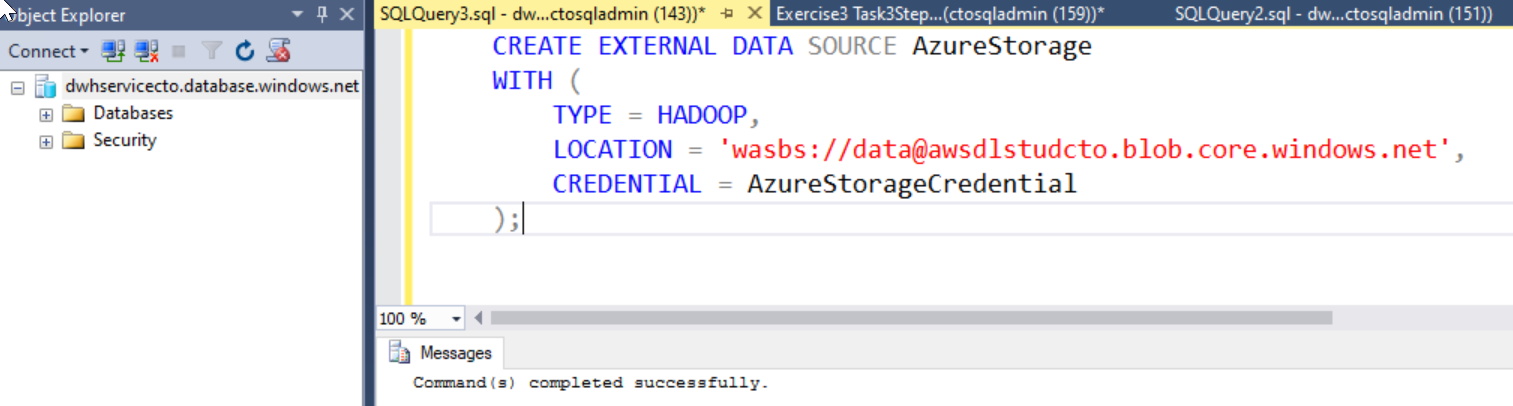
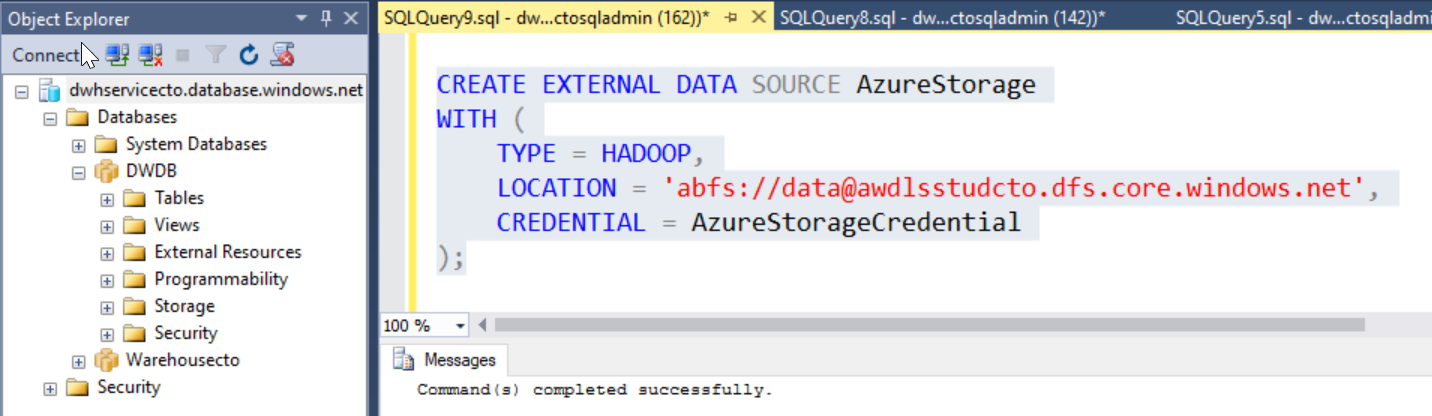
Lab 6 updates

diff --git a/instructions/dp-200-06_instructions.md b/instructions/dp-200-06_instructions.md
@@ -75,47 +75,59 @@ The main tasks for this exercise are as follows:
 
 ### Task 1: Create and configure an Event Hub Namespace.
 
-1. In the Azure portal, select **+ Create a resource**, type **Event Hubs**, and then select **Event Hubs** from the resulting search. Then select **Create**.
+1. In the Azure portal, click on the **Home** hyperlink at the top left of the screen.
 
-1. In the Create Namespace blade, type out the following options, then click **Create**:
-    - **Name**: xx-phoneanalysis-ehns, where xx are your initials
-    - **Pricing Tier**: Standard
-    - **Subscription**: Your subscription
-    - **Resource group**: awrgstudxx
+1. In the Azure portal, click on the **+ Create a resource** icon , type **Event Hubs**, and then select **Event Hubs** from the resulting search. In the Event Hubs screen, click **Create**.
+
+1. In the Create Namespace blade, type out the following options:
+    - **Name**: **xx-phoneanalysis-ehn**, where xx are your initials
+    - **Pricing Tier**: **Standard**
+    - **Subscription**: **Your subscription**
+    - **Resource group**: **awrgstudxx**
     - **Location**: select the location closest to you
     - **Enable Auto-Inflate**: click on the check box 
-    - **Auto-Inflate Maximum Throughput Units**: 20
+    - **Auto-Inflate Maximum Throughput Units**: **20**
     - Leave other options to their default settings
 
-    > **Note**: The creation of the Event Hub Namespace takes approximately 1 minute.
+        ![Creating an Event Hub Namespace in Azure portal](Linked_Image_Files/M06-E02-T01-img01.png)
 
+1. Then click **Create**
+
+    > **Note**: The creation of the Event Hub Namespace takes approximately 1 minute.
+   
 ### Task 2: Create and configure an Event Hub
+
+1. In the Azure portal, click on the **Home** hyperlink at the top left of the screen.
 
 1. In the Azure portal, in the blade, click **Resource groups**, and then click **awrgstudxx**, where **xx** are your initials
 
-1. Click on **xx-phoneanalysis-ehns**, where **xx** are your initials.
+1. Click on **xx-phoneanalysis-ehn**, where **xx** are your initials.
 
-1. In the **xx-phoneanalysis-ehns** screen, click on **+ Event Hubs**.
+1. In the **xx-phoneanalysis-ehn** screen, click on **+ Event Hubs**.
 
-1. Provide the name **xx-phoneanalysis-eh**, and then select **Create**.
+1. Provide the name **xx-phoneanalysis-eh**, leave the other settings to thier default values and then select **Create**.
+
+    ![Creating an Event Hub in Azure portal](Linked_Image_Files/M06-E02-T02-img01.png)
 
     > **Note**: You will receive a message stating that the Event Hub is created after about 10 seconds
 
 ### Task 3: Configure Event Hub security
 
-1. In the Azure portal, in the **xx-phoneanalysis-ehns** screen, where **xx** are your initials. Scroll to the bottom of the window, and click on **xx-phoneanalysis-eh** event hub.
+1. In the Azure portal, in the **xx-phoneanalysis-ehn** screen, where **xx** are your initials. Scroll to the bottom of the window, and click on **xx-phoneanalysis-eh** event hub.
 
 1. To grant access to the event hub, in the blade on the left click **Shared access policies**.
 
 1. Under the **xx-phoneanalysis-eh - Shared access policies** screen, create a policy with **Manage** permissions by selecting **+ Add**. Give the policy the name of **xx-phoneanalysis-eh-sap** , check **Manage**, and then click **Create**.
 
+    ![Creating a Shared Access Policy for Event Hubs in Azure portal](Linked_Image_Files/M06-E02-T03-img01.png)
+
 1. Click on your new policy **xx-phoneanalysis-eh-sap** after it has been created, and then select the copy button for the **CONNECTION STRING - PRIMARY KEY** and paste the CONNECTION STRING - PRIMARY KEY  into Notepad, this is needed later in the exercise.
 
->**NOTE**: The connection string looks as follows:
-> ```CMD
- >Endpoint=sb://<Your event hub namespace>.servicebus.windows.net/;SharedAccessKeyName=<Your shared access policy name>;SharedAccessKey=<generated key>;EntityPath=<Your event hub name>
- >```
-> Notice that the connection string contains multiple key-value pairs separated with semicolons: Endpoint, SharedAccessKeyName, SharedAccessKey, and EntityPath.
+    >**NOTE**: The connection string looks as follows:
+    > ```CMD
+    >Endpoint=sb://<Your event hub namespace>.servicebus.windows.net/;SharedAccessKeyName=<Your shared access policy name>;SharedAccessKey=<generated key>;EntityPath=<Your event hub name>
+    >```
+    > Notice that the connection string contains multiple key-value pairs separated with semicolons: Endpoint, SharedAccessKeyName, SharedAccessKey, and EntityPath.
 
 1. Close down the Event hub screens in the portal
 
@@ -135,7 +147,7 @@ The main tasks for this exercise are as follows:
 
 ### Task 1: Updates the application connection string.
 
-1. Browse to the location **\Labfiles\Starter\DP-200.6\DataGeneratorr**
+1. Browse to the location **\Labfiles\Starter\DP-200.6\DataGenerator**
 
 1. Open the **telcodatagen.exe.config** file in a text editor of your choice
 
@@ -164,6 +176,8 @@ The main tasks for this exercise are as follows:
 Number of call data records per hour.
 Percentage of fraud probability, which is how often the app should simulate a fraudulent call. The value 0.2 means that about 20% of the call records will look fraudulent.
 Duration in hours, which is the number of hours that the app should run. You can also stop the app at any time by ending the process (Ctrl+C) at the command line.
+
+    ![Running the Data Generator Application in Command Prompt](Linked_Image_Files/M06-E03-T02-img01.png)
 
 After a few seconds, the app starts displaying phone call records on the screen as it sends them to the event hub. The phone call data contains the following fields:
 
@@ -202,14 +216,16 @@ The main tasks for this exercise are as follows:
 
 ### Task 1: Provision a Stream Analytics job.
 
-1. Go back to the Azure portal, select **+ Create a resource**, type **STREAM**, and then click the **Stream Analytics Job**, and then click **CREATE**.
-1. 
+1. Go back to the Azure portal, navigate and click on the **+ Create a resource** icon, type **STREAM**, and then click the **Stream Analytics Job**, and then click **Create**.
+
 1. In the **New Stream Analytics job** screen, fill out the following details and then click on **Create**:
     - **Job name**: phoneanalysis-asa-job.
     - **Subscription**: select your subscription
     - **Resource group**: awrgstudxx
     - **Location**: choose a location nearest to you.
     - Leave other options to their default settings
+
+        ![Create a Stream Analytics Job in the Azure Portal](Linked_Image_Files/M06-E04-T01-img01.png)
 
     > **Note**: You will receive a message stating that the Stream Analytics job is created after about 10 seconds. It may take a couple of minutes to update in the Azure portal.
 
@@ -227,10 +243,12 @@ The main tasks for this exercise are as follows:
     - **Input alias**: Enter a name for this job input as **PhoneStream**.
     - **Select Event Hub from your subscriptions**: checked
     - **Subscription**: Your subscription name
-    - **Event Hub Namespace**: xx-phoneanalysis-ehns
+    - **Event Hub Namespace**: xx-phoneanalysis-ehn
     - **Event Hub Name**: Use existing named xx-phoneanalysis-eh
     - **Event Hub Policy Name**: xx-phoneanalysis-eh-sap
-    - Leave remaining options to their default
+    - Leave the rest of the entries as default values. Finally, click **Save***.
+
+        ![Create a Job Input Stream Analytics Job in the Azure Portal](Linked_Image_Files/M06-E04-T02-img01.png)
 
 1. Once completed, the **PhoneStream** Input job will appear under the input window. Close the input widow to return to the Resource Group Page
 
@@ -243,13 +261,14 @@ The main tasks for this exercise are as follows:
 1. In the **Outputs** screen, click **+ Add**, and then click **Blob Storage**.
 
 1. In the **Blob storage** window, type or select the following values in the pane:
-- **Output alias**: PhoneCallRefData
-- **Select Event Hub from your subscriptions**: checked
-- **Subscription**: Your subscription name
-- **Storage account**: awsastudxx, where xx is your initials
-- **Container**: Use existing and select phonecalls
+    - **Output alias**: **:PhoneCallRefData**:
+    - **Select Event Hub from your subscriptions**: checked
+    - **Subscription**: Your subscription name
+    - **Storage account**: **:awsastudxx**:, where xx is your initials
+    - **Container**: **:Use existing**: and **:select phonecalls**
+    - Leave the rest of the entries as default values. Finally, click **Save**.
 
-1. Leave the rest of the entries as default values. Finally, click **Save***.
+        ![Create a Job Output in Stream Analytics Job in the Azure Portal](Linked_Image_Files/M06-E04-T03-img01.png)
 
 1. Close the output screen to return to the Resource Group page
 
@@ -257,7 +276,7 @@ The main tasks for this exercise are as follows:
 
 1. Click on **phoneanalysis-asa-job**.
 
-1. In your **phoneanalysis-asa-job** window, in the **Query** screen in the middle of the window, click on ** Edit query**
+1. In your **phoneanalysis-asa-job** window, in the **Query** screen in the middle of the window, click on **Edit query**
 
 1. Replace the following query in the code editor:
 
@@ -286,7 +305,9 @@ The main tasks for this exercise are as follows:
     > NOTE: This query performs a self-join on a 5-second interval of call data. To check for fraudulent calls, you can self-join the streaming data based on the CallRecTime value. You can then look for call records where the CallingIMSI value (the originating number) is the same, but the SwitchNum value (country/region of origin) is different. When you use a JOIN operation with streaming data, the join must provide some limits on how far the matching rows can be separated in time. Because the streaming data is endless, the time bounds for the relationship are specified within the ON clause of the join using the DATEDIFF function.
     This query is just like a normal SQL join except for the DATEDIFF function. The DATEDIFF function used in this query is specific to Stream Analytics, and it must appear within the ON...BETWEEN clause.
 
-1. Select Save.
+    ![Create a Query in Stream Analytics Job in the Azure Portal](Linked_Image_Files/M06-E04-T04-img01.png)
+
+1. Select **Save Query**.
 
 1. Close the Query window to return to the Stream Analytics job page.
 
@@ -308,6 +329,8 @@ The main tasks for this exercise are as follows:
 1. In the Azure portal, click **Containers** box, and then click on the container named **phonecalls**.
 
 1. Confirm that a JSON file appears, and note the size column.
+
+    ![Viewing Files in the Azure Portal](Linked_Image_Files/M06-E04-T06-img01.png)
 
 1. Refresh Microsoft Edge, and when the screen has refreshed note the size of the file
 

diff --git a/instructions/dp-200-05_instructions.md b/instructions/dp-200-05_instructions.md
@@ -82,7 +82,7 @@ The main task for this exercise are as follows:
             - Leave the remaining settings to their defaults, and then click on **OK**
             
 
-    ![Creating a SQL Database in the Azure portal](Linked_Image_Files/M05-E01-T01-img02.png)
+                ![Creating a SQL Database in the Azure portal](Linked_Image_Files/M05-E01-T01-img02.png)
 
 1. In the **Create SQL Database*** blade, click **Review + create**.
 
@@ -139,7 +139,7 @@ The main tasks for this exercise are as follows:
             - Select the checkbox to Allow Azure services to access server
             - click on **OK**
 
-            ![Creating a server instance in the Azure portal](Linked_Image_Files/M05-E02-T01-img01.png)
+                ![Creating a server instance in the Azure portal](Linked_Image_Files/M05-E02-T01-img01.png)
 
     - Performance Level: Click **Select performance level** and select **Gen2 DW100C**
 
@@ -223,6 +223,8 @@ The main tasks for this exercise are as follows:
 ### Task 3: Create SQL Data Warehouse tables.
 
 1. In **SQL Server Management Studio**, in Object Explorer, right click **dwhservicexx.database.windows.net** and click on **New Query**.
+
+1. Ensure in the Available databases, that **DWDB** is selected
 
     >**Note**: If you are unfamiliar with Transact-SQL, there is a script in the Allfiles\Solution\DP-200.5\folder named **Exercise3 Task3Step2 script.sql**. It contains the bulk of the code required to create the tables, but you do have to complete the code by selecting the distribution type to use for each table 
 
@@ -335,7 +337,7 @@ The main tasks for this exercise are as follows:
     CREATE EXTERNAL DATA SOURCE AzureStorage
     WITH (
         TYPE = HADOOP,
-        LOCATION = 'wasbs://data@awsastudxx.blob.core.windows.net',
+        LOCATION = 'abfs://data@awsdlstudxx.dfs.core.windows.net',
         CREDENTIAL = AzureStorageCredential
     );
     ```
